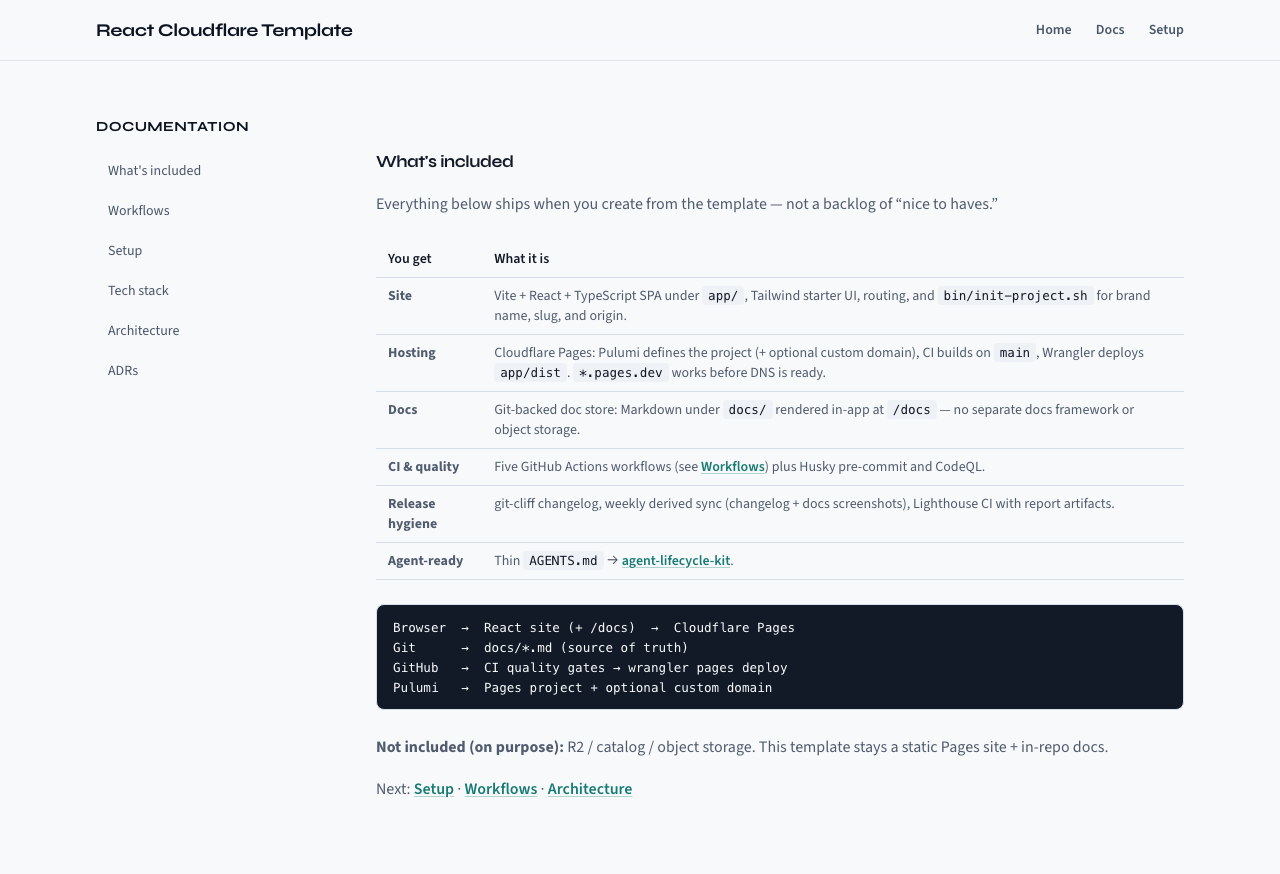
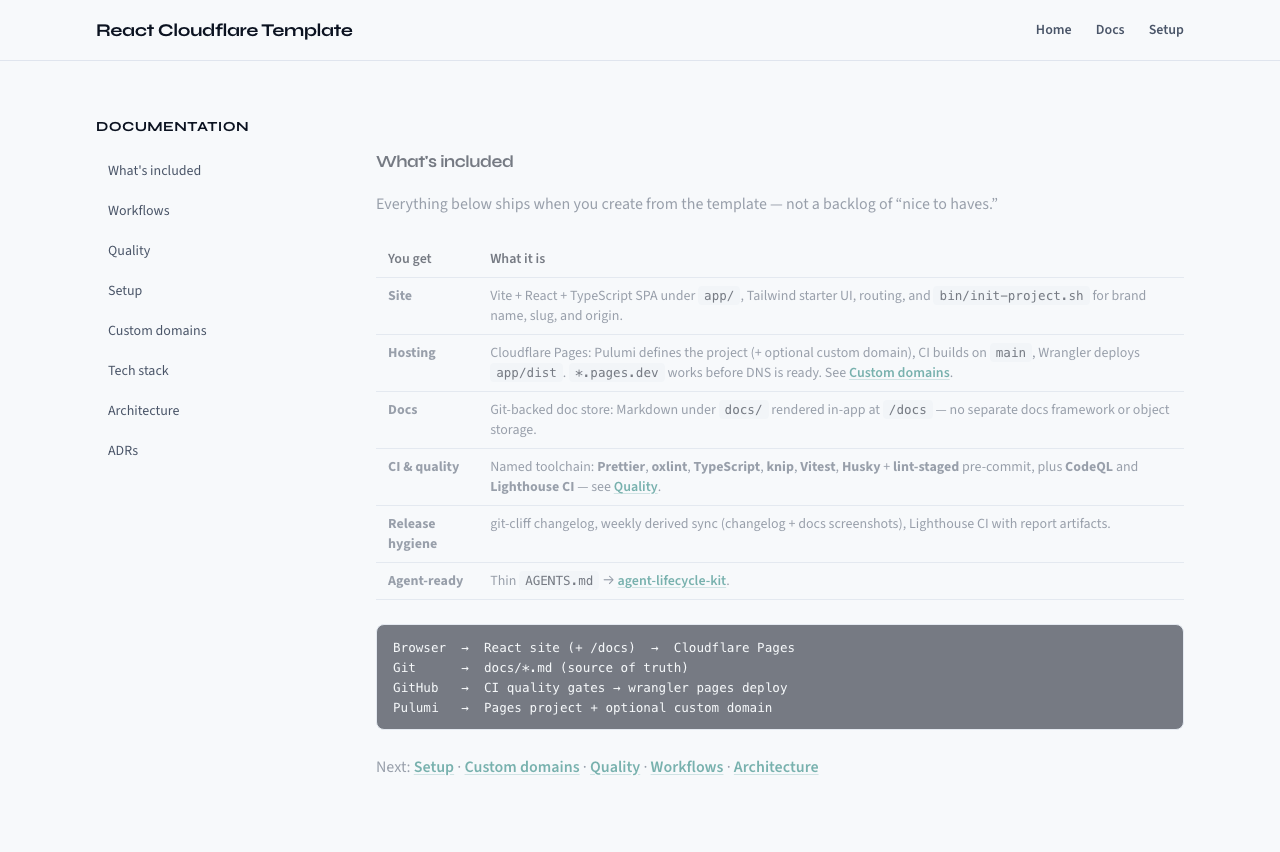
feat: add hosting bootstrap snippet and enhance HomePage layout

diff --git a/app/src/pages/HomePage.tsx b/app/src/pages/HomePage.tsx
@@ -6,10 +6,12 @@ import {
   SITE_REPO_URL,
   SITE_SLUG,
   SITE_TAGLINE,
+  hostingBootstrapSnippet,
   templateCloneSnippet,
 } from '../siteConfig';
 
 const CLONE_SNIPPET = templateCloneSnippet('my-app');
+const HOSTING_SNIPPET = hostingBootstrapSnippet();
 
 export function HomePage() {
   useEffect(() => {
@@ -36,11 +38,22 @@ export function HomePage() {
             View on GitHub →
           </a>
         </div>
-        <div className="hero-snippet" data-testid="template-snippet">
-          <p className="hero-snippet-label">Use this template</p>
-          <pre>
-            <code>{CLONE_SNIPPET}</code>
-          </pre>
+        <div className="hero-snippets">
+          <div className="hero-snippet" data-testid="template-snippet">
+            <p className="hero-snippet-label">Use this template</p>
+            <pre>
+              <code>{CLONE_SNIPPET}</code>
+            </pre>
+          </div>
+          <div className="hero-snippet" data-testid="hosting-snippet">
+            <p className="hero-snippet-label">Host on Cloudflare</p>
+            <pre>
+              <code>{HOSTING_SNIPPET}</code>
+            </pre>
+            <p className="hero-snippet-hint">
+              <a href="/docs/custom-domains">Custom domains &amp; secrets →</a>
+            </p>
+          </div>
         </div>
       </div>
     </section>

diff --git a/app/src/siteConfig.ts b/app/src/siteConfig.ts
@@ -2,9 +2,9 @@
 export const SITE_SLUG = 'react-cloudflare-template';
 export const SITE_NAME = 'React Cloudflare Template';
 export const SITE_DESCRIPTION =
-  'React + Cloudflare Pages starter with CI, docs, changelog, and Lighthouse.';
+  'React on Cloudflare Pages with hosting, docs, and CI wired — so day one is product work, not plumbing.';
 export const SITE_TAGLINE =
-  'Ship a Vite + React + TypeScript app to Cloudflare Pages with CI, changelog, docs media, and Lighthouse already wired.';
+  'Hosting, docs, and CI already wired — so day one is product work, not plumbing.';
 /** Public site origin (no trailing slash). Used for canonical/SEO when enabled. */
 export const SITE_ORIGIN = 'https://example.com';
 /** GitHub repository for this template (or your fork after init). */
@@ -17,5 +17,13 @@ export function templateCloneSnippet(appSlug = 'my-app'): string {
     `gh repo create ${appSlug} --template ${SITE_TEMPLATE_REF} --public --clone`,
     `cd ${appSlug}`,
     `bin/init-project.sh --name "My App" --slug ${appSlug}`,
+  ].join('\n');
+}
+
+/** Short hosting teaser — full walkthrough lives in docs/custom-domains. */
+export function hostingBootstrapSnippet(): string {
+  return [
+    'cp .env.example .env   # DOMAIN, PAGES_HOSTNAMES, BWS_* or token',
+    'bin/setup-cloudflare-hosting.sh',
   ].join('\n');
 }

diff --git a/app/src/pages/HomePage.test.tsx b/app/src/pages/HomePage.test.tsx
@@ -25,4 +25,13 @@ describe('HomePage', () => {
     expect(snippet.textContent).toContain(`--template ${SITE_TEMPLATE_REF}`);
     expect(snippet.textContent).toContain('bin/init-project.sh');
   });
+
+  it('shows a hosting bootstrap teaser linked to custom-domains docs', () => {
+    render(<HomePage />);
+    const snippet = screen.getByTestId('hosting-snippet');
+    expect(snippet.textContent).toContain('bin/setup-cloudflare-hosting.sh');
+    expect(snippet.textContent).toContain('.env.example');
+    const link = screen.getByRole('link', { name: /custom domains/i });
+    expect(link.getAttribute('href')).toBe('/docs/custom-domains');
+  });
 });

diff --git a/app/src/index.css b/app/src/index.css
@@ -119,9 +119,13 @@
     animation: fade-up 0.7s ease-out 0.2s both;
   }
 
-  .hero-snippet {
-    @apply mt-12 max-w-2xl;
+  .hero-snippets {
+    @apply mt-12 flex max-w-2xl flex-col gap-8;
     animation: fade-up 0.7s ease-out 0.3s both;
+  }
+
+  .hero-snippet {
+    @apply max-w-2xl;
   }
 
   .hero-snippet-label {
@@ -134,6 +138,14 @@
 
   .hero-snippet code {
     @apply font-mono text-[0.85rem] whitespace-pre;
+  }
+
+  .hero-snippet-hint {
+    @apply text-ink-muted mt-2 text-sm;
+  }
+
+  .hero-snippet-hint a {
+    @apply text-accent hover:text-accent-hover font-medium transition-colors;
   }
 
   .btn-primary {

diff --git a/app/index.html b/app/index.html
@@ -5,7 +5,7 @@
     <meta name="viewport" content="width=device-width, initial-scale=1.0" />
     <meta
       name="description"
-      content="React + Cloudflare Pages starter with CI, docs, changelog, and Lighthouse."
+      content="React on Cloudflare Pages with hosting, docs, and CI wired — so day one is product work, not plumbing."
     />
     <link rel="preconnect" href="https://fonts.googleapis.com" />
     <link rel="preconnect" href="https://fonts.gstatic.com" crossorigin />

diff --git a/README.md b/README.md
@@ -1,8 +1,8 @@
 # React Cloudflare Template
 
-**From empty repo to a live Cloudflare Pages site — without assembling the boring half yourself.**
+**From empty repo to a live Cloudflare Pages site — so day one is product work, not plumbing.**
 
-A GitHub template for a modern **React + TypeScript + Tailwind** SPA on **Cloudflare Pages**, with production habits already wired: **Prettier**, **oxlint**, **knip**, **Vitest**, **Husky** pre-commit, CI deploy, Pulumi, CodeQL, changelog, docs-in-app, and Lighthouse.
+A GitHub template for a **React + TypeScript + Tailwind** SPA on **Cloudflare Pages**, with docs-in-app, Pulumi, CI deploy, and the quality toolchain already in place.
 
 ![Home — React Cloudflare Template](docs/screenshots/home.png)
 
@@ -93,7 +93,7 @@ pnpm format:check && pnpm lint && pnpm typecheck && pnpm knip && pnpm test && pn
 
 ## Why this instead of `npm create vite`?
 
-Vite gives you a blank app. This template gives you the **site + hosting + docs + CI** baseline so day one is product work, not plumbing:
+Vite gives you a blank app. This template is the baseline so day one is product work, not plumbing:
 
 | You get                                               | So you don't have to                               |
 | ----------------------------------------------------- | -------------------------------------------------- |
